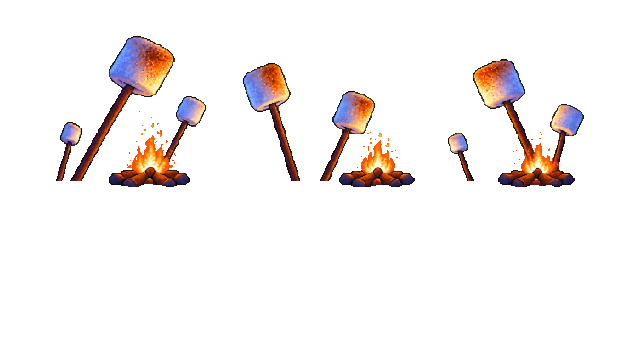
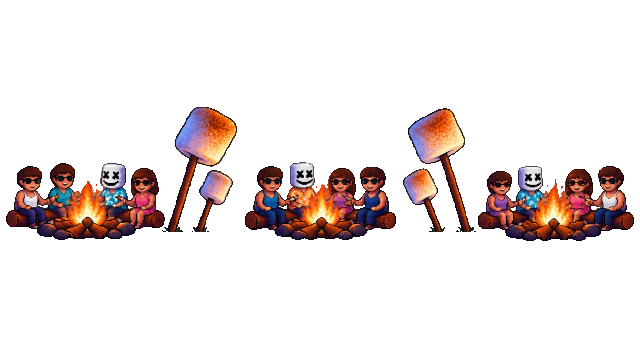
Mellow world: people around the campfires instead of a crowd
Claude-Session: https://claude.ai/code/session_01QtD76jZP7ynNj9DKqbs7sk

Changed region(s): [[0.0, 0.0917, 1.0, 0.6722]]

diff --git a/src/levels/worlds/mellow.js b/src/levels/worlds/mellow.js
@@ -1,8 +1,8 @@
 // WORLD: MELLOW, marshmello's world: a white marshmallow world: wooden sticks, campfires, a soft white land under a moonlit sky (Sandro's notes; no world pictures).
 // Looks only. Gameplay files (src/levels/gameplay/) name this world but never change it.
 // Art: made in Higgsfield (pictures in project files art/worlds/mellow/), shrunk into
-// src/art/world/mellow/ with `python3 tools/hf_world.py <dir> mellow far=1,0.66,0.5 mid=0.85,0.52,0.5
-// near=1,1.09,0.5 dim=near:0.75 seam=far:mirror`; the 'layers' builder in src/art/background.js puts them together.
+// src/art/world/mellow/ with `python3 tools/hf_world.py <dir> mellow far=1,0.66,0.5 mid=1,0.67,0.5
+// seam=far:mirror seam=near:mirror`; the 'layers' builder in src/art/background.js puts them together.
 export default {
   id: 'mellow',
   name: 'MELLOW', // top bar
@@ -16,8 +16,8 @@ export default {
   layers: [
     'sky: lilac night sky with stars and a crescent moon (fixed)',
     'far: hills of giant marshmallows and fluffy white ground (0.05)',
-    'mid: toasted marshmallows on long wooden sticks and campfires (0.15)',
-    'near: the crowd facing you, some in marshmallow helmets (0.35)',
+    'mid: campfires with people sitting around them roasting marshmallows, sticks between (0.15)',
+    'near: soft marshmallow ground with a few loose marshmallows; no crowd here (Sandro) (0.35)',
     'effect: embers drifting up from the fires',
   ],
   motifs: ['marshmallows as soft round platforms', 'wooden sticks as thin poles', 'fire (boss: burning marshmallows)'],
